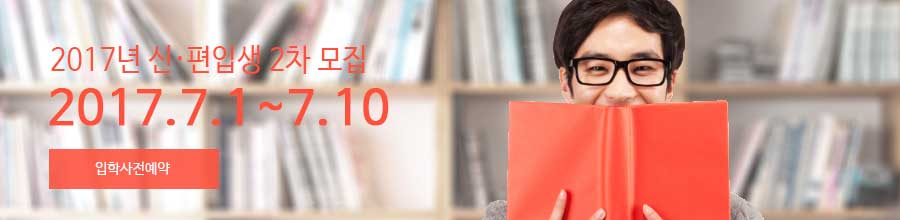
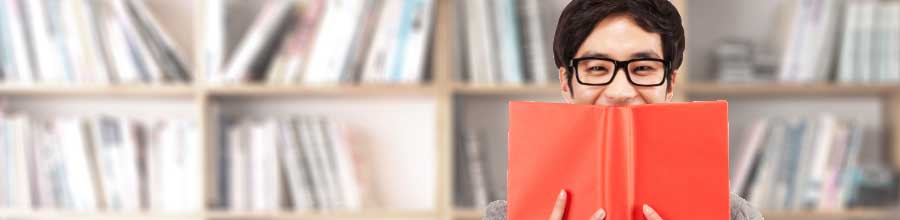
Add files via upload

Changed region(s): [[0.0311, 0.3818, 0.4356, 0.5727], [0.0311, 0.1909, 0.4044, 0.3545], [0.0311, 0.6545, 0.2489, 0.8727]]

diff --git a/css/style2.css b/css/style2.css
@@ -45,7 +45,7 @@ ul#nav>li>a:hover{font-weight:bold;color:#00163b;}
 #wrapper{position: relative;height: 1300px;width: 100%;}
 
 #text_wrapper>img{width: 100%;height: 1300px;margin: 0 auto;display:inline-block;}
-#text_wrap{background: #000;width: 1200px;margin:0 auto;}
+#text_wrap{background: #000;max-width: 1200px;margin:0 auto;}
 #text_wrap:after{content:"";clear: both;display: block;}
 #text_wrap>h2{color:white;position: absolute;top: 80px;font-size:43px;}
 #text_wrap>h1{color:white;position: absolute;top: 140px;font-size:60px;}
@@ -54,13 +54,17 @@ ul#nav>li>a:hover{font-weight:bold;color:#00163b;}
 #text_wrap>ul>li{float: left;}
 #text_wrap>ul>li>a{display: block;}
 
-.bx-wrapper{box-shadow:none;border:none;margin-bottom:0;
+.box1 .bx-wrapper{box-shadow:none;border:none;margin-bottom:0;
 	width: 900px;height: 440px;}
-.bx-wrapper .bx-pager{bottom:10px;}
+.box1 .bx-wrapper .bx-pager{bottom:10px;}
+
+.box8 .bx-wrapper{box-shadow:none;border:none;margin-bottom:0;
+	width: 900px;height: 220px;}
+.box8 .bx-wrapper .bx-pager{bottom:10px;}
 
 #wrapper3{}
 #box_wrap{width: 1200px;position: relative;margin: 0 auto;}
-#box_wrap>.box1{position: absolute;bottom: 600px;left: 0;}
+#box_wrap .box1{position: absolute;bottom:600px;left: 0;}
 #box_wrap .box1 .slider1 li{position: relative;}
 #box_wrap .box1 .slider1 li h3{position: absolute;top:100px;left: 100px;
 	color:#1351b4;font-size:50px;}
@@ -103,11 +107,10 @@ ul#nav>li>a:hover{font-weight:bold;color:#00163b;}
 	color:#00183e;font-size:24px;}
 #box_wrap .box5 div{width: 115px;height: 80px;position: absolute;
 	top: 65px;left: 18px;}
-#box_wrap .box5 a{width: 130px;height: 80px;font-size:14px;
-	position: absolute;top: 65px;right: 18px;line-height: 20px}
-#box_wrap .box5 ul{overflow:hidden;}
-#box_wrap .box5 ul li{float: left;}
-#box_wrap .box5 ul li a{display: block;}
+#box_wrap .box5 h2{width: 130px;height: 80px;font-size:14px;
+	position: absolute;top: 65px;right: 18px;line-height: 20px;font-weight: normal}
+#box_wrap .box5 ul{overflow: hidden;position: absolute;bottom: 20px;right: 18px;}
+#box_wrap .box5 ul li{float: left;padding-left: 3.3px;}
 
 #box_wrap>.box6{position: absolute;bottom: 380px;right: 0;width: 300px;height: 220px;}
 #box_wrap .box6 h3{width: 300px;height: 53px;background: #000;
@@ -116,10 +119,42 @@ ul#nav>li>a:hover{font-weight:bold;color:#00163b;}
 #box_wrap .box6 h3 a{display: block;color:white;}
 
 #box_wrap>.box7{position: absolute;bottom: 160px;left: 0;width: 300px;height: 220px;}
-#box_wrap>.box8{position: absolute;bottom: 160px;right: 0;width: 900px;height: 220px;}
-#box_wrap>.box9{position: absolute;bottom: 80px;left: 0;}
+#box_wrap .box7 h1{width: 65px;height: 65px;background: #000;
+	position: absolute;bottom: 80px;right: 115px;text-align: center;
+	line-height: 65px;color:white;border-radius: 60px;}
+#box_wrap .box7 h1 a{display: block;color:white;padding-left:5px}
+
+#box_wrap>.box8{position: absolute;bottom: 160px;right: 0;width: 900px;height: 220px;
+	background: skyblue;}
+#box_wrap .box8 .slider2 li{position: relative;}
+#box_wrap .box8 .slider2 li h3{position: absolute;top:40px;left: 50px;
+	color:#fc624f;font-size:30px;font-weight: normal}
+#box_wrap .box8 .slider2 li h1{position: absolute;top:80px;left: 50px;
+	color:#fc624f;font-size:46px;}
+#box_wrap .box8 .slider2 li .btn_more{position: absolute;bottom: 30px;left: 50px;
+	color:white;background: #fc624f;padding: 13px 30px;
+	cursor: pointer;font-size:14px;font-weight: bold;
+	text-align: center;width: 120px;}
+
+#box_wrap>.box9{position: absolute;bottom: 80px;left: 0px;
+	width: 1200px;height: 60px;background:white;}
+#box_wrap>.box9>h1{color:#001739;font-size:20px;font-weight: bold;position: absolute;top: 19px;left: 40px;}
+#box_wrap>.box9>h2{font-size:20px;color:#6b6b6b;font-weight: bold;position: absolute;top: 19px;left: 157px;}
+#box_wrap>.box9>h3{font-size:15px;color:#6b6b6b;font-weight: bold;position: absolute;top: 21px;left: 347px;}
+#box_wrap>.box9>h4{font-size:13.1px;color:#6b6b6b;font-weight: normal;position: absolute;top: 21px;right: 110px;}
+#box_wrap .box9 .upbtn{position: absolute;right: 0;top: 0;}
+#box_wrap .box9 .downbtn{position: absolute;right: 0;top: 33px;}
 
 
-
-#footer{width: 720px;margin: 0 auto;}
+#footer{width: 720px;height: 190px;margin: 0 auto;
+	background: #fff;position: relative;;}
 #footer>div{width: 720px;height: 140px;}
+#footer>ul{overflow: hidden;padding-top: 35px;position: absolute;left: 0;}
+#footer>ul>li{float: left;border-right: 1.3px solid #686868;
+	padding-left: 11px;padding-right: 11px;}
+#footer>ul>li>a{display: block;color:#686868;
+	font-size:15px;font-weight: bold;}
+#footer ul li:first-child{padding-left: 0px}
+#footer ul li:last-child{border-right: none;}
+#footer h1{font-size:14px;color:#9b9b9b;padding-top: 65px;}
+#footer h2{font-size:14px;color:#9b9b9b;padding-top: 10px;}

diff --git a/index.html b/index.html
@@ -12,9 +12,7 @@
 			$('.slider1').bxSlider({
 				auto:true
 			});
-		});
 
-		$(document).ready(function(){
 			$('.slider2').bxSlider({
 				auto:true
 			});
@@ -65,14 +63,23 @@
 		<div id=text_wrapper>
 			<img src="./images/pic.jpg" alt="배경">
 			<div id="text_wrap">
+				<ul>
+					<li>
+						<a href="#"><img src="./images/con1.png" alt=""></a>
+					</li>
+					<li>
+						<a href="#"><img src="./images/con2.png" alt=""></a>
+					</li>
+					<li>
+						<a href="#"><img src="./images/con3.png" alt=""></a>
+					</li>
+					<li>
+						<a href="#"><img src="./images/con4.png" alt=""></a>
+					</li>
+				</ul>
 				<h2>함께 나누며 세상을 이끌어</h2>
 				<h1>세계로 향하는 한국대학교</h1>
-				<ul>
-					<li><a href="#"><img src="./images/con1.png" alt=""></a></li>
-					<li><a href="#"><img src="./images/con2.png" alt=""></a></li>
-					<li><a href="#"><img src="./images/con3.png" alt=""></a></li>
-					<li><a href="#"><img src="./images/con4.png" alt=""></a></li>
-				</ul>
+				
 				
 			</div>
 			<div id="wrapper3">
@@ -95,6 +102,8 @@
 						<h4>모바일 열람증은<br>도서관 자료실 / 도서대출 등에<br>사용할 수 있습니다.</h4>
 						<div class="btn_more2">자세히 보기 ▶</div>
 					</div>
+
+
 					<div class="box3">
 						<h1>HOT LINK</h1>
 						<ul class="hotlink">
@@ -121,13 +130,13 @@
 					<div class="box5">
 						<h1>SNS NEWS</h1>
 						<div><img src="./images/snsnews_pic.jpg" alt=""></div>
-						<a href="#">한국대학교는<br>2017학년도 신입생<br>입학식을 3월 2일(목)<br>본교 종합체육관...</a>
+						<h2><a href="#">한국대학교는<br>2017학년도 신입생<br>입학식을 3월 2일(목)<br>본교 종합체육관...</a></h2>
 						<ul>
 							<li>
 								<a href="#"><img src="./images/facebook.jpg" alt=""></a>
 							</li>
 							<li>
-								<a href="#"><img src="./images/twitter.jpg" alt=""></a>
+								<a href="#"><img src="./images/tweeter.jpg" alt=""></a>
 							</li>
 							<li>
 								<a href="#"><img src="./images/google.jpg" alt=""></a>
@@ -141,19 +150,32 @@
 						<div><img src="./images/campus.jpg" alt=""></div>
 						<h3><a href="#">캠퍼스 투어</a></h3>
 					</div>
+
+
+
 					<div class="box7">
 						<div><img src="./images/movie.jpg" alt=""></div>
+						<h1><a href="#">▶</a></h1>
 					</div>
 					<div class="box8">
-						<div class="slider2">
-							<div><img src="./images/banner.jpg" alt=""></div>
-							<div><img src="./images/banner.jpg" alt=""></div>
-							<div><img src="./images/banner.jpg" alt=""></div>
-							<div><img src="./images/banner.jpg" alt=""></div>
-						</div>
+						<ul class="slider2">
+							<li><img src="./images/banner.jpg" alt="">
+								<h3>2017년 신·편입생 2차 모집</h3>
+								<h1><b>2017.7.1~7.10</b></h1>
+								<div class="btn_more">입학사전예약</div>
+							</li>
+							<li><img src="./images/banner.jpg" alt=""></li>
+							<li><img src="./images/banner.jpg" alt=""></li>
+							<li><img src="./images/banner.jpg" alt=""></li>
+						</ul>
 					</div>
 					<div class="box9">
-						<div><img src="./images/bottom.jpg" alt=""></div>
+						<h1>학사일정</h1>
+						<h2><2016 07></h2>
+						<h3>2016-1학기 성적 열람 및 상담 신청</h3>
+						<h4>성적 열람 및 상담 신청은 본인이 수강한 교과목 설문조사를 모두 마친 후 확인이...</h4>
+						<div class="upbtn"><a href="#"><img src="./images/upbtn.jpg" alt=""></a></div>
+						<div class="downbtn"><a href="#"><img src="./images/downbtn.jpg" alt=""></a></div>
 					</div>
 				</div>
 			</div>
@@ -161,7 +183,29 @@
 		
 	</div>
 	<div id="footer">
-		<div><img src="./images/footer.jpg" alt=""></div>
+		<!-- <div><img src="./images/footer.jpg" alt=""></div> -->
+		<ul>
+			<li>
+				<a href="#">회사소개</a>
+			</li>
+			<li>
+				<a href="#">한국대학교</a>
+			</li>
+			<li>
+				<a href="#">개인정보취급방침</a>
+			</li>
+			<li>
+				<a href="#">이용정책</a>
+			</li>
+			<li>
+				<a href="#">입점/제휴 문의 및 광고</a>
+			</li>
+			<li>
+				<a href="#">이메일 무단수집 거부</a>
+			</li>
+		</ul>
+		<h1>대표자 :  홍길동      서울특별시 구로구 구로로 300 (구로동 6가)      사업자등록번호 : 123-56-7890234<br>통신판매업 신고번호 : 제 1234-서울 구로구 1004호     개인정보관리 책임자 : 홍길동      소비자피해보상보험<br>고객센터 : 1234-5678      FAX : 02-1234-5678     HANGUKUNIVERSITY  @HANGUK.COM</h1>
+		<h2>COPYRIGHT ⓒ HANGUK. ALL RIGHTS RESERVED.</h2>
 	</div>
 </body>
 </html>
